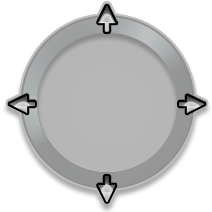
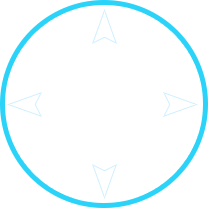
替换控制盘外观

diff --git a/websocket/src/main/resources/static/js/share/tool/control.js b/websocket/src/main/resources/static/js/share/tool/control.js
@@ -6,7 +6,6 @@
 
 import Resource from "./resource.js";
 import Common from "./common.js";
-import Adapter from "./adapter.js";
 
 export default class Control {
 
@@ -206,11 +205,11 @@ export default class Control {
         }
 
         //talk
-        distance = Common.distance(x, y, controlMode.talkCenterX, controlMode.talkCenterY);
-        if (distance < controlMode.talkRadius) {
-            Adapter.inputMessageEvent(false);
-            return;
-        }
+        // distance = Common.distance(x, y, controlMode.talkCenterX, controlMode.talkCenterY);
+        // if (distance < controlMode.talkRadius) {
+        //     Adapter.inputMessageEvent(false);
+        //     return;
+        // }
 
         //way
         //如果已经在触控方向盘则不做额外触控操作
@@ -219,7 +218,7 @@ export default class Control {
         }
 
         //在屏幕的左半边触控则直接返回
-        if (x >= Common.width() / 2) {
+        if (x >= Common.width() * .3) {
             return;
         }
 
@@ -270,7 +269,7 @@ export default class Control {
 
         let centerX = Common.width() / 4 / 2;
         let centerY = Common.height() / 2 / 2;
-        let radius = centerX > centerY ? centerY : centerX;
+        let radius = 160;
         centerY *= 3;
 
         let rightCenterX = centerX * 7;
@@ -303,9 +302,9 @@ export default class Control {
         thisControl.controlMode.rightCenterY = rightCenterY;
         thisControl.controlMode.rightRadius = rightRadius;
 
-        thisControl.controlMode.talkRadius = 37;
-        thisControl.controlMode.talkCenterX = Resource.width() - 61;
-        thisControl.controlMode.talkCenterY = 92;
+        // thisControl.controlMode.talkRadius = 37;
+        // thisControl.controlMode.talkCenterX = Resource.width() - 61;
+        // thisControl.controlMode.talkCenterY = 92;
     };
 
     static draw(ctx) {
@@ -344,14 +343,6 @@ export default class Control {
             controlMode.rightRadius * 2, controlMode.rightRadius * 2);
 
         //TODO 输入框相关，后期优化
-        // //返回
-        // const back = Resource.getOrCreateImage("back");
-        // ctx.drawImage(
-        //     back,
-        //     0, 0,
-        //     back.width, back.height,
-        //     Resource.width() - back.width, 0,
-        //     back.width, back.height);
         // //talk
         // const talk = Resource.getOrCreateImage("talk");
         // ctx.drawImage(
